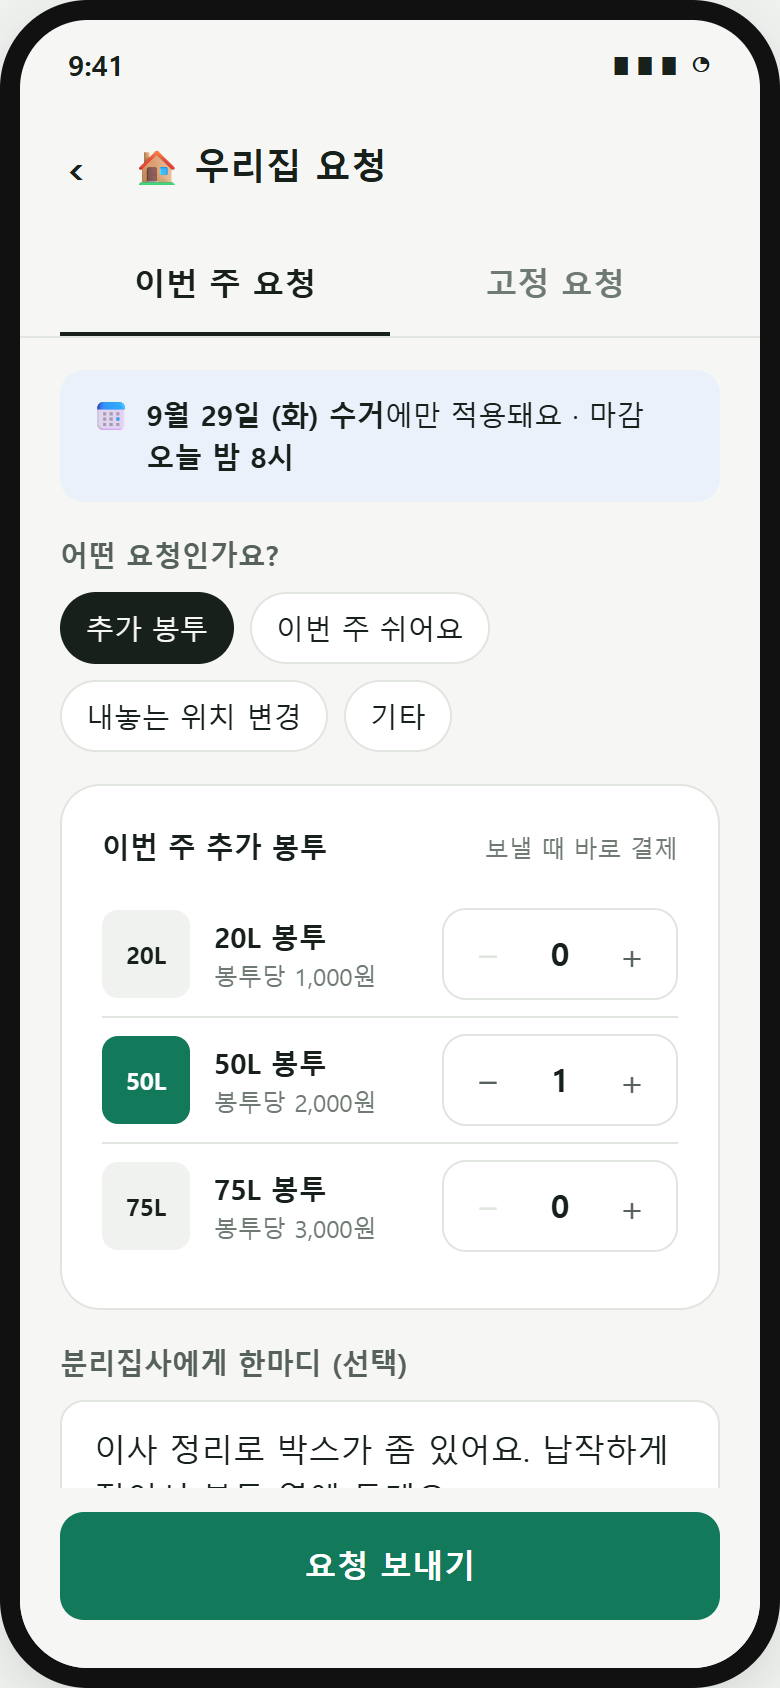
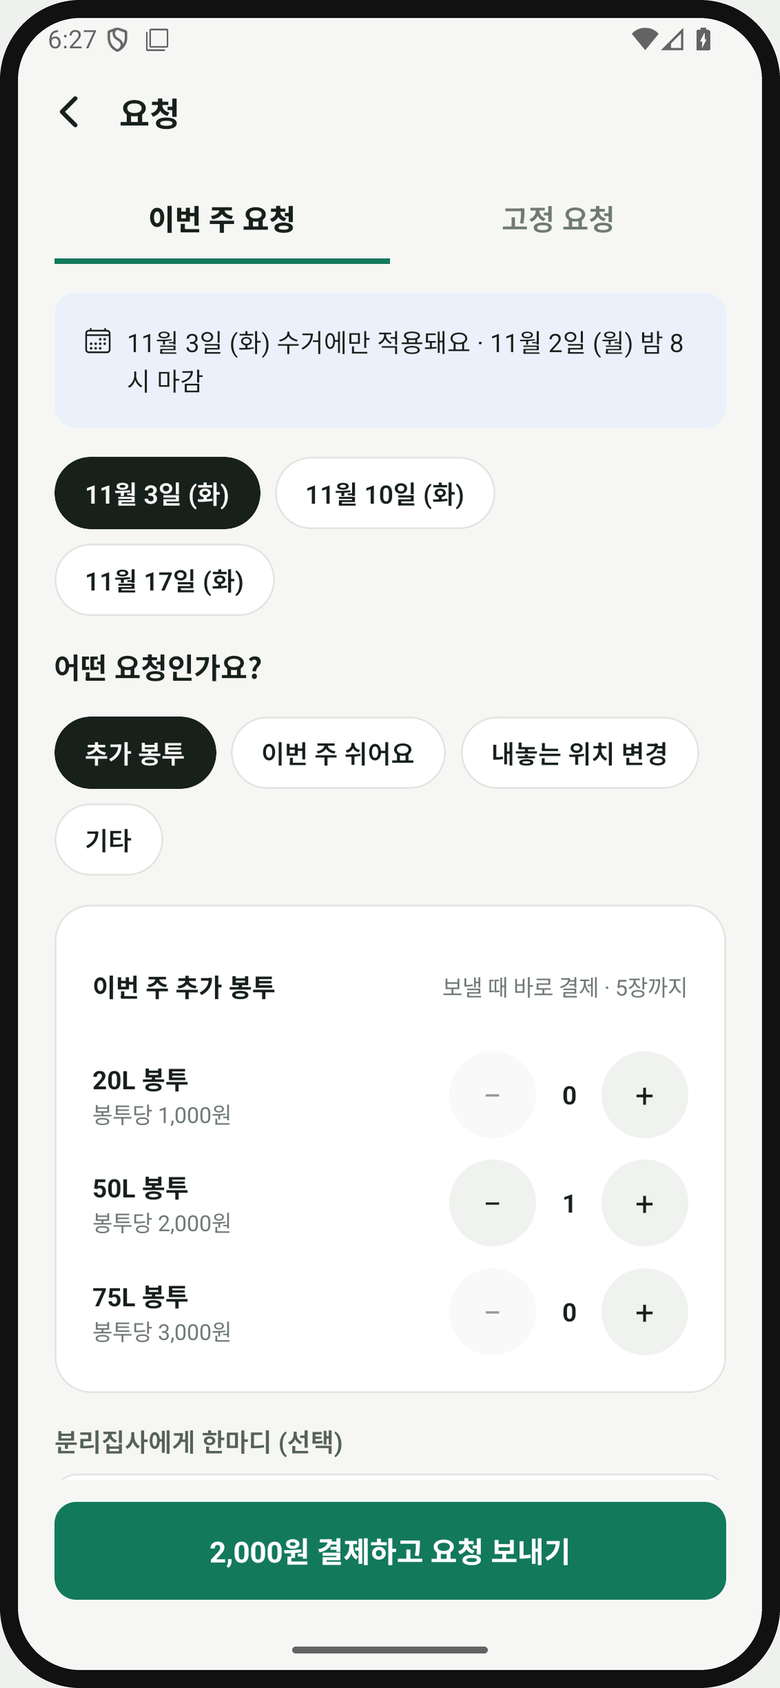
content: recapture Bunri Jipsa screens from current apps, rename section, drop English labels

diff --git a/public/projects/personal-sanitation/index.html b/public/projects/personal-sanitation/index.html
@@ -27,7 +27,6 @@
   .lead { color: var(--text-2); margin: 0 0 28px; max-width: 760px; }
   .grid + .grid { margin-top: 16px; }
   .arch + .lead { margin-top: 40px; }
-  .eyebrow { color: var(--primary); font-weight: 700; font-size: 14px; letter-spacing: .04em; }
 
   /* 히어로 */
   header.hero { padding: 72px 0 56px; }
@@ -132,7 +131,7 @@
     .gallery.desks { break-before: page; }
     .card, .arch, figure, .stack > div, .flow-notes li { break-inside: avoid; }
     .topbar { display: none; }
-    h2, .eyebrow, .lead { break-after: avoid; }
+    h2, .lead { break-after: avoid; }
     :root { --bg: #ffffff; }
     .hero h1 { font-size: 36px; }
     h3 { font-size: 16px; }
@@ -180,7 +179,6 @@
 <main>
 <section>
   <div class="wrap">
-    <p class="eyebrow">OVERVIEW</p>
     <h2>프로젝트 개요</h2>
     <p class="lead">구독제 분리수거 대행 서비스입니다.<br>고객 앱은 Android·iOS 크로스 플랫폼을 지원합니다.<br>고객·기사·운영 담당자가 하나의 서비스 흐름으로 연결됩니다.</p>
     <div class="grid two services">
@@ -194,8 +192,7 @@
 
 <section>
   <div class="wrap">
-    <p class="eyebrow">SCREENS</p>
-    <h2>화면</h2>
+    <h2>서비스 이미지</h2>
     <p class="lead">각 서비스의 주요 화면입니다. <span class="screen-only">이미지를 누르면 크게 볼 수 있습니다.</span></p>
     <div class="tabs" role="tablist">
       <button role="tab" aria-selected="true" data-tab="app" aria-controls="app">서비스 앱</button>
@@ -207,35 +204,34 @@
       <figure><img src="images/app-guest.png" alt="둘러보기 홈"><figcaption><b>둘러보기</b>로그인 없이 동네·요금 확인</figcaption></figure>
       <figure><img src="images/app-signup.png" alt="회원가입 본인인증"><figcaption><b>회원가입</b>휴대폰 본인인증</figcaption></figure>
       <figure><img src="images/app-home.png" alt="서비스 앱 홈 화면: 내 구독 목록"><figcaption><b>홈</b>여러 주소의 구독 목록</figcaption></figure>
-      <figure><img src="images/app-detail.png" alt="구독 상세"><figcaption><b>구독 상세</b>다음 수거 · 요청 현황</figcaption></figure>
+      <figure><img src="images/app-detail.png" alt="구독 상세"><figcaption><b>구독 상세</b>다음 수거 D-day · 이번 주 요청 · 고정 요청</figcaption></figure>
       <figure><img src="images/app-subscribe.png" alt="플랜 선택"><figcaption><b>구독 신청</b>봉투 용량 · 추가 봉투</figcaption></figure>
-      <figure><img src="images/app-waitlist.png" alt="서비스 불가 지역"><figcaption><b>구독 대기</b>서비스 지역 밖 주소</figcaption></figure>
-      <figure><img src="images/app-request.png" alt="이번 주 요청 작성"><figcaption><b>요청사항</b>이번 주 요청 · 고정 요청</figcaption></figure>
-      <figure><img src="images/app-notifications.png" alt="알림 목록"><figcaption><b>알림</b>수거 예정 · 완료 알림</figcaption></figure>
-      <figure><img src="images/app-price-change.png" alt="요금 인상 동의"><figcaption><b>요금 변경 동의</b>기존 구독자 가격 변경</figcaption></figure>
+      <figure><img src="images/app-waitlist.png" alt="서비스 불가 지역"><figcaption><b>구독 대기</b>서비스 지역 밖 주소는 결제 없이 대기 등록</figcaption></figure>
+      <figure><img src="images/app-request.png" alt="이번 주 요청 작성"><figcaption><b>이번 주 요청</b>수거일 선택 · 추가 봉투 바로 결제</figcaption></figure>
+      <figure><img src="images/app-notifications.png" alt="알림 목록"><figcaption><b>알림</b>요청 답변 · 요금 변경 · 결제 알림</figcaption></figure>
+      <figure><img src="images/app-price-change.png" alt="요금 인상 동의"><figcaption><b>요금 변경 동의</b>인상 전후 금액 비교 · 동의 또는 해지</figcaption></figure>
       <figure><img src="images/app-home-dark.png" alt="다크 모드 홈"><figcaption><b>다크 모드</b>기기 설정을 따름</figcaption></figure>
     </div>
 
     <div class="gallery phones" id="driver" role="tabpanel" data-label="운영 앱">
       <figure><img src="images/driver-today.png" alt="오늘 수거 목록"><figcaption><b>오늘 수거</b>진행률 · 오프라인 전송 대기</figcaption></figure>
-      <figure><img src="images/driver-stop.png" alt="수거지 상세"><figcaption><b>수거지 상세</b>출입 정보(비밀번호 가림)</figcaption></figure>
-      <figure><img src="images/driver-photo.png" alt="수거 인증 촬영"><figcaption><b>수거 인증</b>사진 촬영 후 완료 처리</figcaption></figure>
+      <figure><img src="images/driver-stop.png" alt="수거지 상세"><figcaption><b>수거지 상세</b>출입 정보(비밀번호 가림) · 이번 주 요청</figcaption></figure>
+      <figure><img src="images/driver-photo.png" alt="수거 인증 촬영"><figcaption><b>수거 인증</b>빈 문앞을 촬영해 완료 처리</figcaption></figure>
     </div>
 
     <div class="gallery desks" id="dash" role="tabpanel" data-label="운영 대시보드">
-      <figure><img src="images/dash-overview.png" alt="오늘 현황"><figcaption><b>오늘 현황</b>권역별 수거 진행 · 미수거 · 결제 실패</figcaption></figure>
-      <figure><img src="images/dash-subscriptions.png" alt="구독 결제 조회"><figcaption><b>구독 · 결제</b>목록 + 상세 드로어</figcaption></figure>
+      <figure><img src="images/dash-overview.png" alt="오늘 현황"><figcaption><b>오늘 현황</b>미답변 요청 · 권역별 수거 진행 · 미수거 · 결제 실패</figcaption></figure>
+      <figure><img src="images/dash-subscriptions.png" alt="구독 결제 조회"><figcaption><b>구독 · 결제</b>마스킹된 목록 + 상세 패널</figcaption></figure>
       <figure><img src="images/dash-pricing.png" alt="가격 플랜"><figcaption><b>가격 · 플랜</b>예약 가격 변경 · 동의 현황</figcaption></figure>
-      <figure><img src="images/dash-areas.png" alt="지역 권역"><figcaption><b>지역 · 권역</b>법정동 트리 · 권역 상세</figcaption></figure>
+      <figure><img src="images/dash-areas.png" alt="지역 권역"><figcaption><b>지역 · 권역</b>권역 트리 · 수거 요일 · 읍면동 오픈 상태</figcaption></figure>
       <figure><img src="images/dash-push.png" alt="푸시 작성"><figcaption><b>푸시 발송</b>대상 조건 · 미리보기</figcaption></figure>
-      <figure><img src="images/dash-promotions.png" alt="이벤트 만들기"><figcaption><b>이벤트 · 할인</b>조건 조합으로 이벤트 생성</figcaption></figure>
+      <figure><img src="images/dash-promotions.png" alt="이벤트 만들기"><figcaption><b>이벤트 · 할인</b>조건 조합 · 예상 할인액 미리보기</figcaption></figure>
     </div>
   </div>
 </section>
 
 <section>
   <div class="wrap">
-    <p class="eyebrow">FEATURES</p>
     <h2>구현 기능</h2>
     <div class="grid two">
       <div class="card"><span class="tag">서비스 앱</span><h3>회원가입 · 로그인</h3><ul>
@@ -298,7 +294,6 @@
 
 <section>
   <div class="wrap">
-    <p class="eyebrow">TECH STACK</p>
     <h2>기술 스택</h2>
     <div class="stack">
       <div class="k">백엔드 서버</div>
@@ -368,7 +363,6 @@
 
 <section>
   <div class="wrap">
-    <p class="eyebrow">ARCHITECTURE</p>
     <h2>시스템 구성</h2>
     <p class="lead">세 클라이언트(서비스 앱 · 운영 앱 · 운영 대시보드)가 하나의 백엔드 서버(Nest.js)를 공유합니다. 결제·본인인증·푸시 같은 외부 연동은 인터페이스 뒤에 두어 개발 중엔 mock, 운영에선 실제 구현으로 교체합니다.</p>
     <div class="arch">
